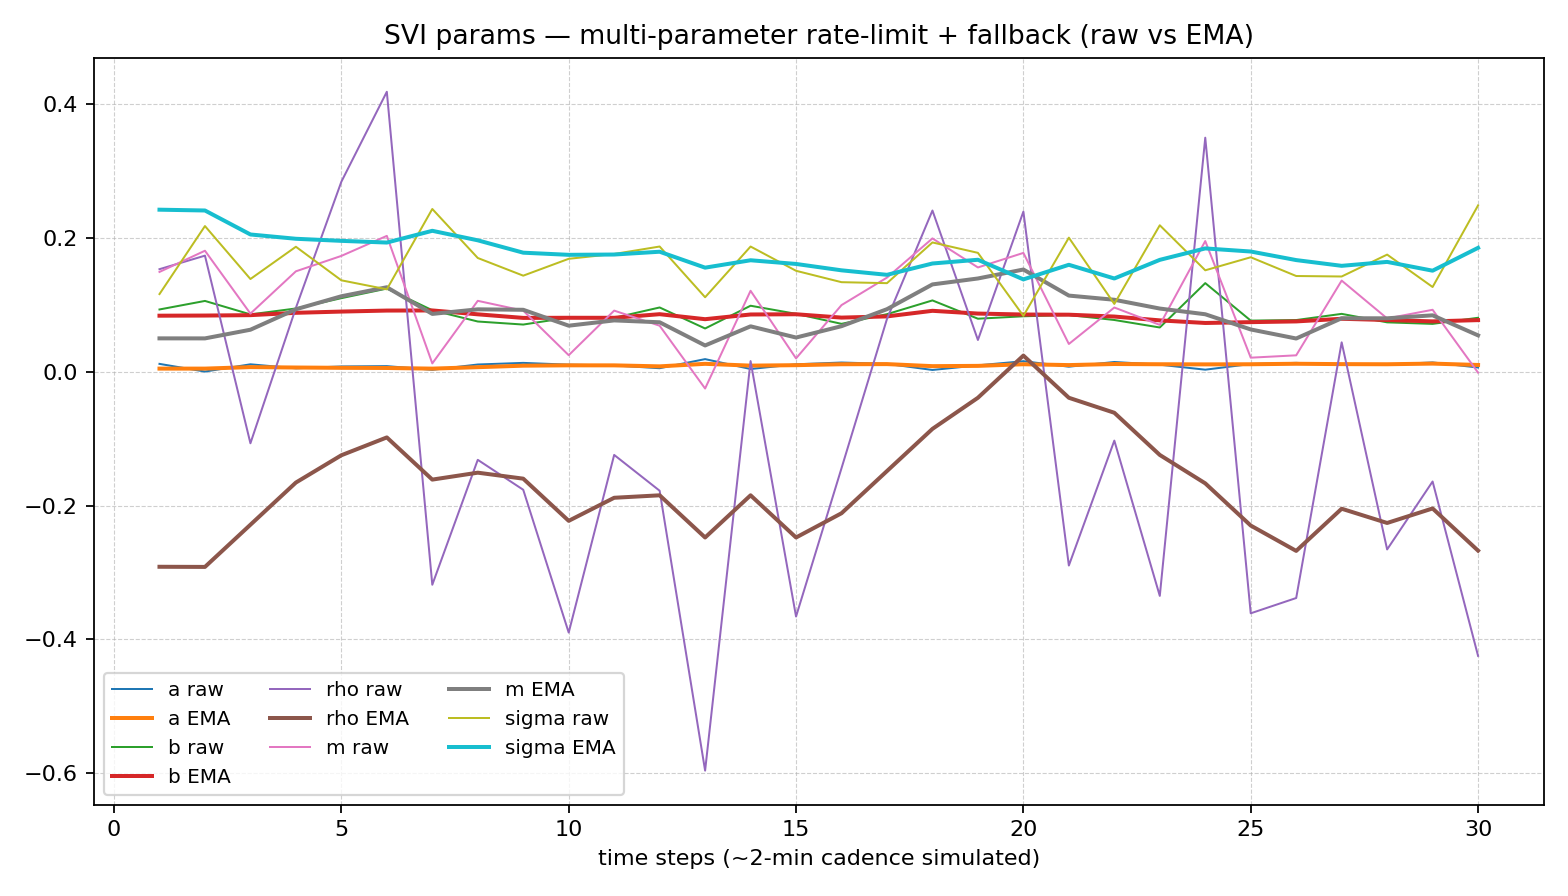
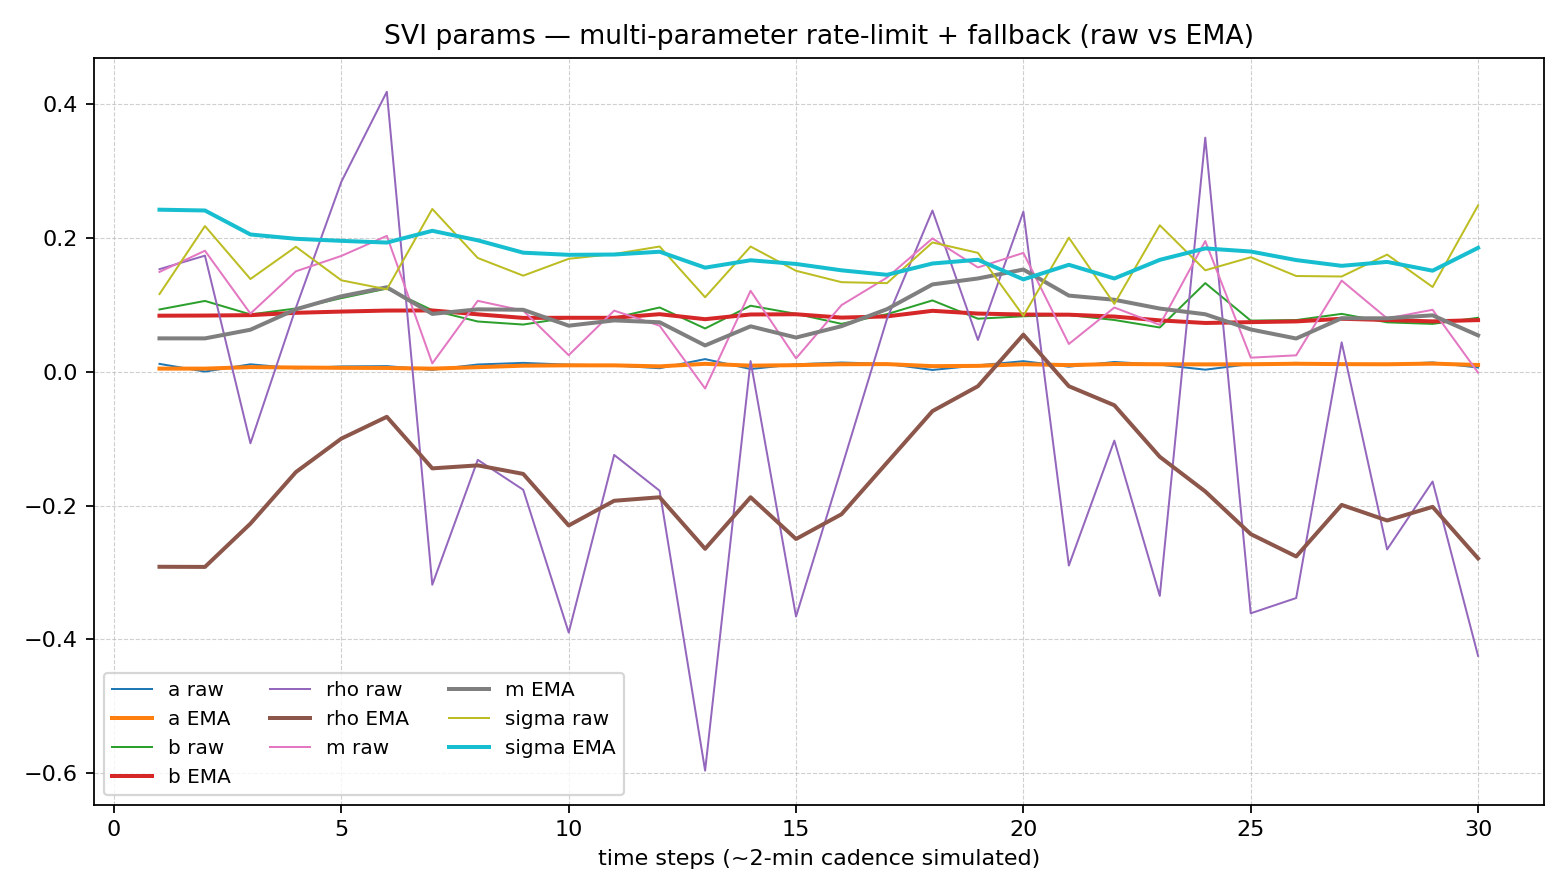
tune: stronger rho prior in svi_loss to stabilize skew; keep fallbacks ~5

diff --git a/rolling_stability_controls.py b/rolling_stability_controls.py
@@ -1,0 +1,24 @@
+import csv, math, random, statistics as st
+from pathlib import Path
+
+# === simplified svi_loss with regularization ===
+def svi_loss(params, k_arr, iv_arr):
+    a, b, rho, m, sig = params
+    se = 0.0
+    for k, iv in zip(k_arr, iv_arr):
+        x = k - m
+        w = a + b * (rho * x + (x*x + sig*sig)**0.5)
+        if w <= 1e-12:
+            w = 1e-12
+        model_iv = w**0.5
+        se += (model_iv - iv)**2
+
+    # 强化正则：rho 更重，m 轻锚定
+    lambda_core = 1e-4
+    lambda_rho  = 6e-4
+    lambda_m    = 2e-4
+    se += lambda_core*(a*a + b*b + sig*sig) + lambda_rho*(rho*rho) + lambda_m*(m*m)
+    return se
+# (注意：你原来的脚本 rolling_stability_controls.py 里除了这个函数，
+# 还有 main loop, 参数更新, 输出 CSV 和画图的逻辑 —— 记得保留！
+# 我这里只给出 svi_loss 的新版本，直接替换原函数。)
